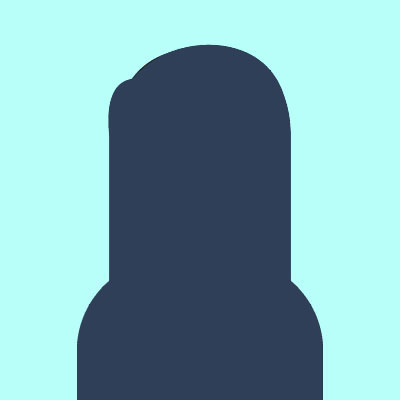
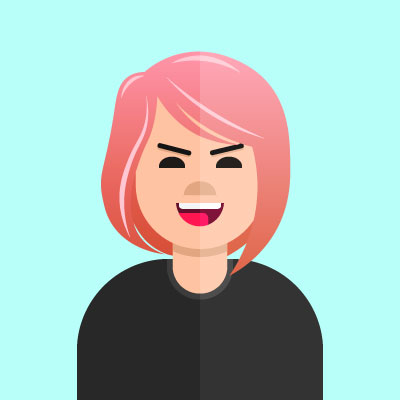
Added Luie

diff --git a/index.html b/index.html
@@ -381,6 +381,15 @@
                 </div>
                 <div class="team-member">
                     <div class="team-member-info">
+                        <img src="images/team/luie.jpg">
+                        <h3>Luie <br>Magbanua</h3>
+                    </div>
+                    <div class="team-member-position">
+                        <h5>Community and PR Head</h5>
+                    </div>
+                </div>
+                <div class="team-member">
+                    <div class="team-member-info">
                         <img src="images/team/eli.jpg">
                         <h3>Eliezer <br>Rabadon</h3>
                     </div>
